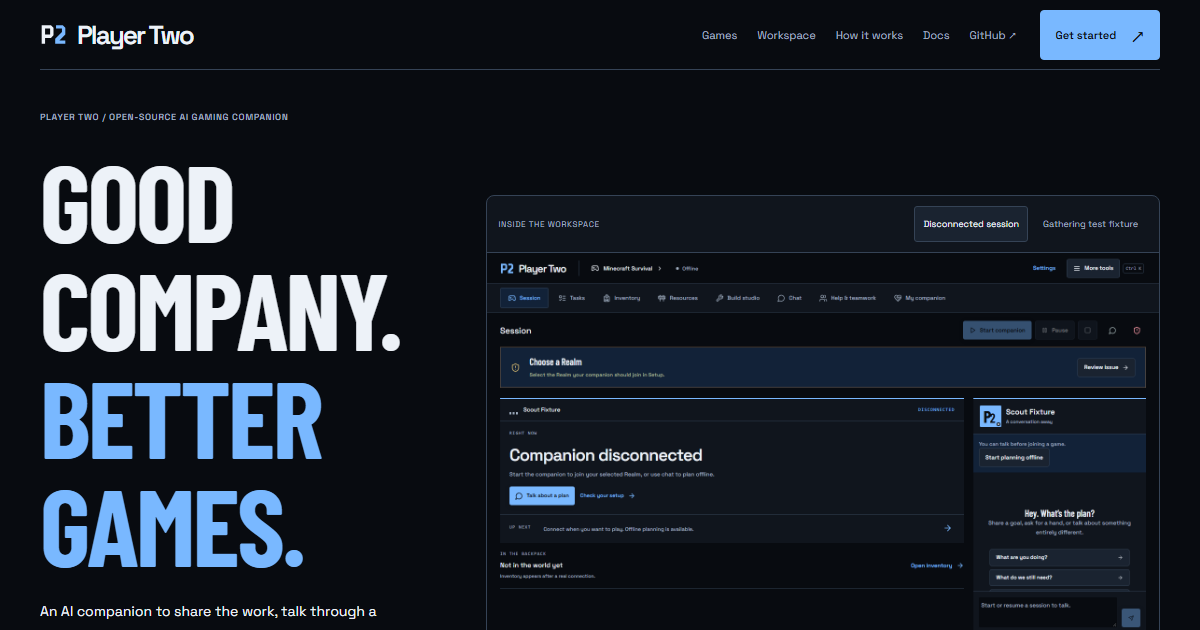
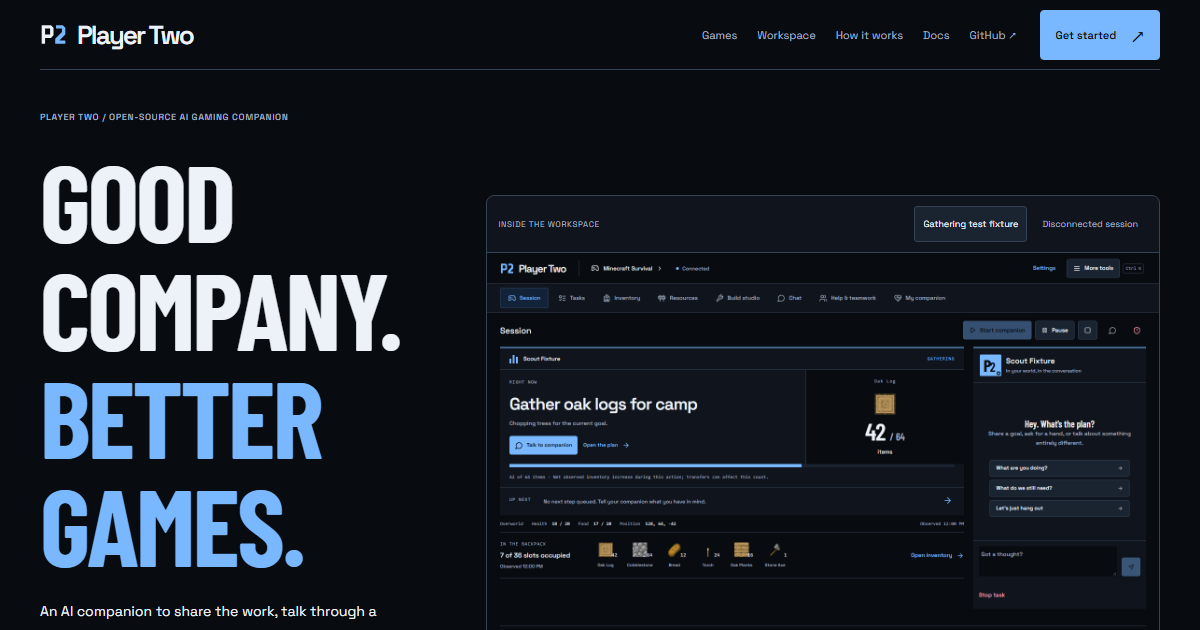
website: show gathering example by default

diff --git a/apps/website/src/App.tsx b/apps/website/src/App.tsx
@@ -159,18 +159,18 @@ function SectionHeading({
   );
 }
 function ProductImage({ eager = false }: { eager?: boolean }) {
-  const [fixture, setFixture] = useState(false);
+  const [fixture, setFixture] = useState(true);
   const filename = fixture ? "gathering-fixture.png" : "dashboard.png";
   return (
     <figure className="workspace-preview">
       <div className="preview-toolbar">
         <span>INSIDE THE WORKSPACE</span>
         <div aria-label="Workspace screenshot">
-          <button aria-pressed={!fixture} onClick={() => setFixture(false)}>
-            Disconnected session
-          </button>
           <button aria-pressed={fixture} onClick={() => setFixture(true)}>
             Gathering test fixture
+          </button>
+          <button aria-pressed={!fixture} onClick={() => setFixture(false)}>
+            Disconnected session
           </button>
         </div>
       </div>

diff --git a/docs/WORKSPACE.md b/docs/WORKSPACE.md
@@ -4,9 +4,10 @@ Player Two is the shared home for an AI gaming companion. Minecraft Survival is 
 only playable game. The workspace uses game-aware observations and keeps
 Minecraft-specific inventory and building controls in dedicated views.
 
-The screenshot in the [README](../README.md) and public website comes from the
-actual application in a disconnected test session. It is not a simulated live
-mission, fabricated inventory or proof of gameplay success.
+The workspace screenshot in the [README](../README.md) shows a disconnected test
+session. The public website defaults to a labeled gathering example rendered by
+the actual application with synthetic observations. Neither is proof of live
+gameplay success; the disconnected screenshot remains available on the website.
 
 ## Find your bearings
 
